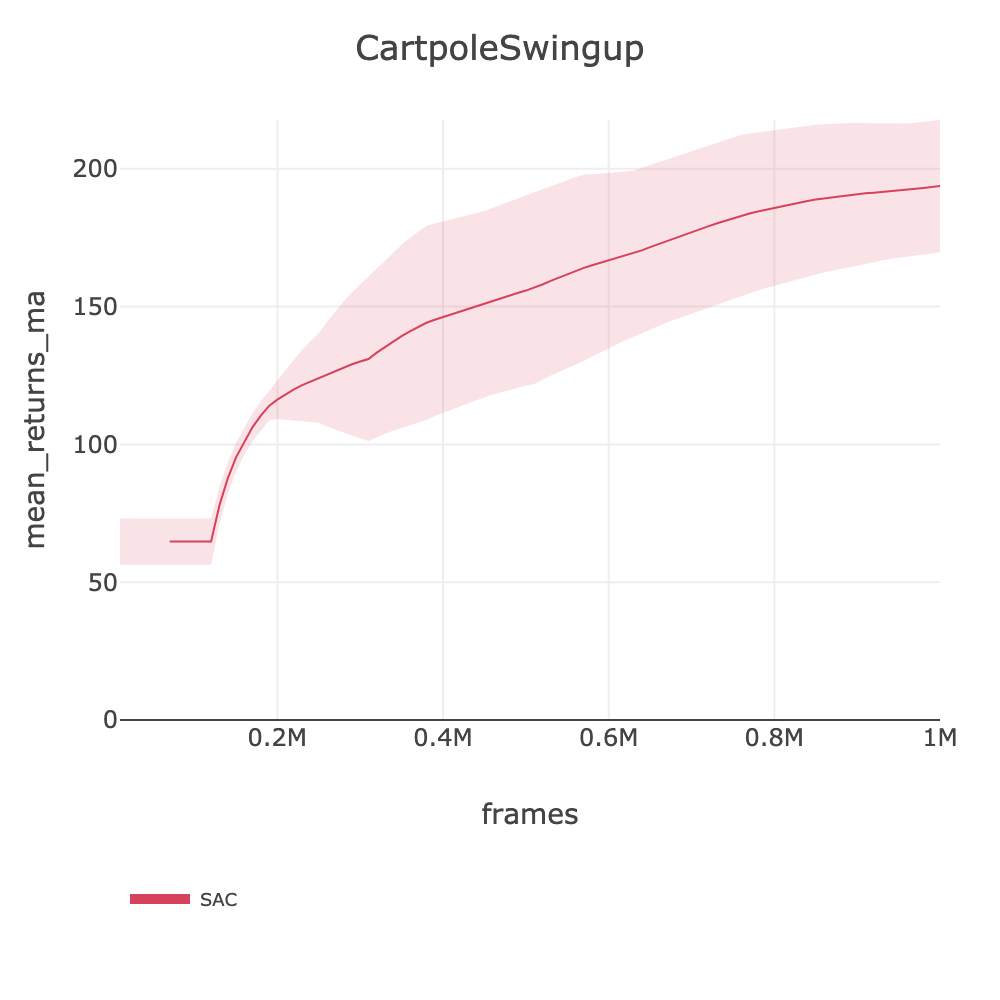
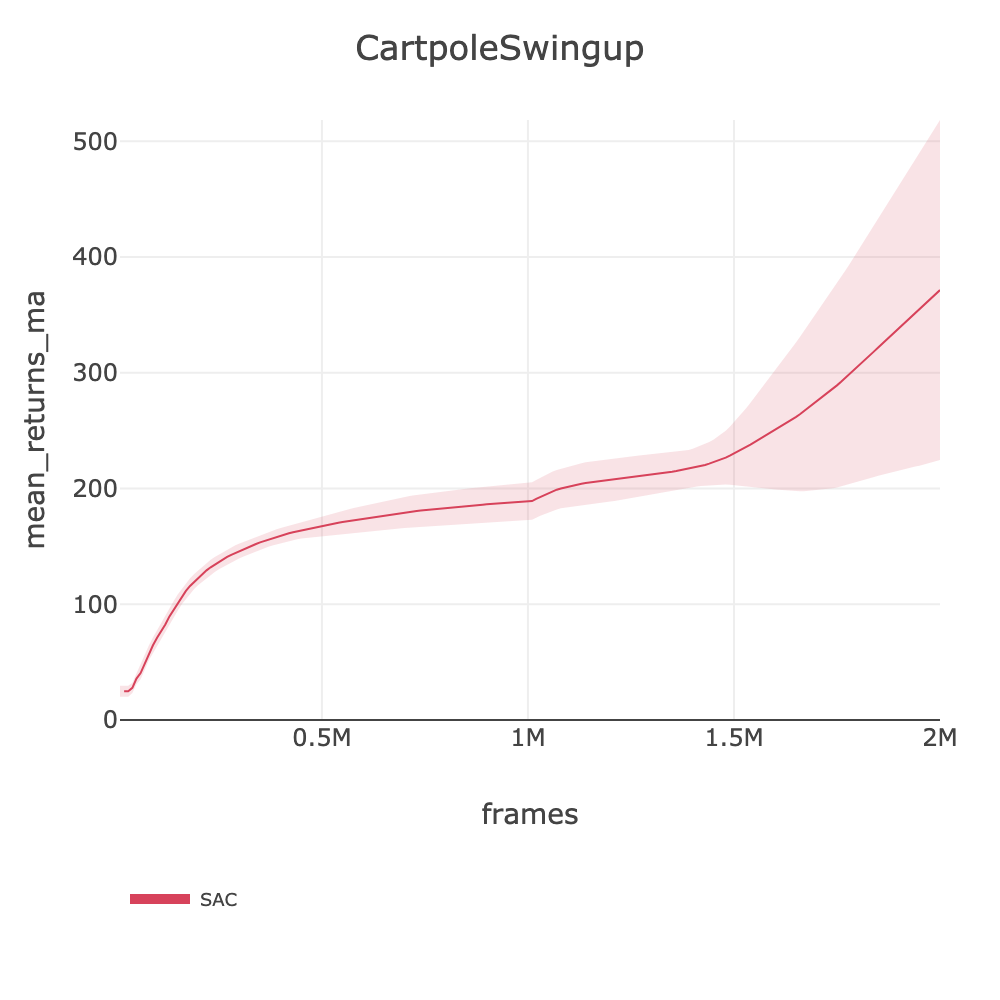
feat: Phase 5 CartpoleSwingup SAC baseline (371.40)

diff --git a/docs/BENCHMARKS.md b/docs/BENCHMARKS.md
@@ -790,7 +790,7 @@ source .env && slm-lab run-remote --gpu -s env=playground/CartpoleBalance -s max
 | playground/AcrobotSwingup | - | 3.46 | [sac_playground_arc_fast_acrobotswingup_2026_03_06_111158](https://huggingface.co/datasets/SLM-Lab/benchmark-dev/tree/main/data/sac_playground_arc_fast_acrobotswingup_2026_03_06_111158) |
 | playground/BallInCup | - | - | - |
 | playground/CartpoleBalanceSparse | - | - | - |
-| playground/CartpoleSwingup | - | 193.71 | [sac_playground_arc_fast_cartpoleswingup_2026_03_06_111101](https://huggingface.co/datasets/SLM-Lab/benchmark-dev/tree/main/data/sac_playground_arc_fast_cartpoleswingup_2026_03_06_111101) |
+| playground/CartpoleSwingup | - | 371.40 | [sac_playground_arc_cartpoleswingup_2026_03_06_130653](https://huggingface.co/datasets/SLM-Lab/benchmark-dev/tree/main/data/sac_playground_arc_cartpoleswingup_2026_03_06_130653) |
 | playground/CartpoleSwingupSparse | - | - | - |
 | playground/CheetahRunBackwards | - | - | - |
 | playground/FingerSpin | - | 251.38 | [sac_playground_arc_fast_fingerspin_2026_03_06_111620](https://huggingface.co/datasets/SLM-Lab/benchmark-dev/tree/main/data/sac_playground_arc_fast_fingerspin_2026_03_06_111620) |
